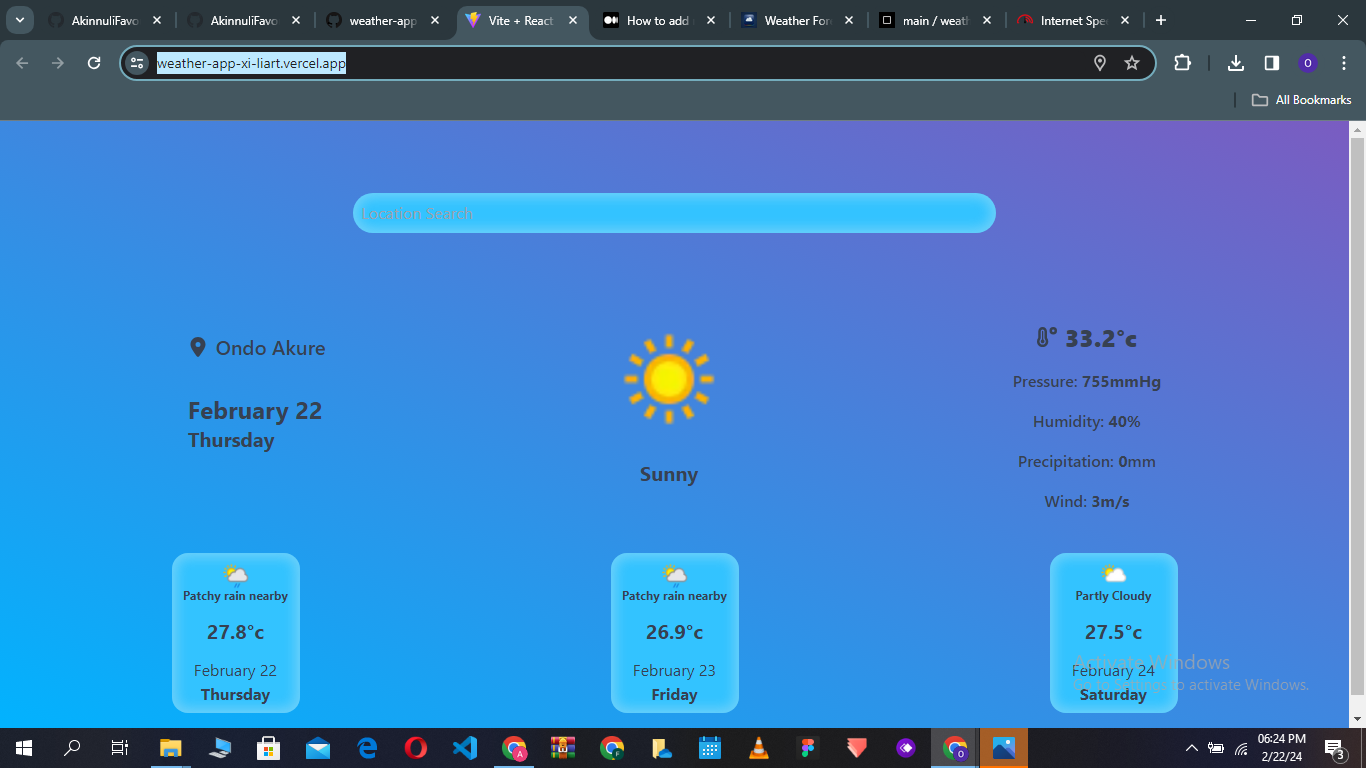
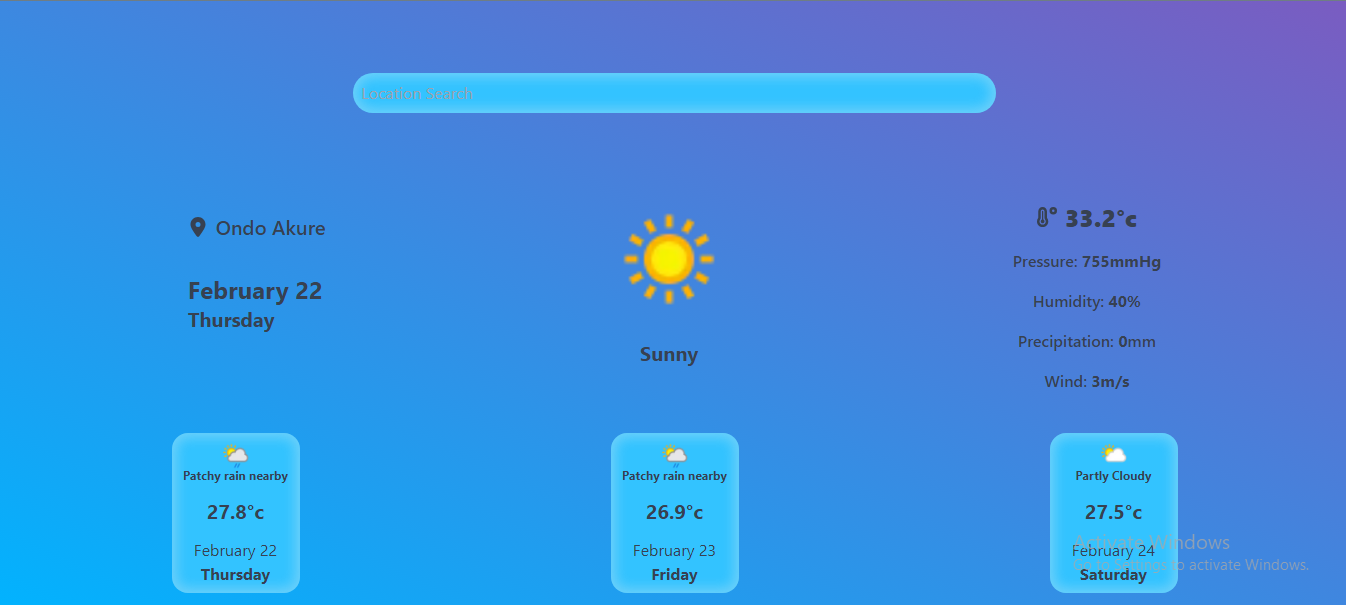
Update SearchBar component styling

diff --git a/src/compoents/SearchBar.tsx b/src/compoents/SearchBar.tsx
@@ -5,13 +5,13 @@ const SearchBar = ({location, setLocation}: {location: string, setLocation: Reac
         console.log(`User Pressed ${e.key}`)
     }
     return (
-    <form action="" className="mt-10 flex justify-center items-center gap-4">
+      <form action="" className="mt-10 flex justify-center items-center gap-4 relative">
       <input
         type="search"
         name=""
         id=""
         placeholder="Location Search"
-        className="p-2 w-full lg:w-1/2 outline-none rounded-3xl shadow-inner bg-[#33C3FF]"
+        className="p-2 w-full lg:w-1/2 outline-none rounded-3xl shadow-inner bg-[#33C3FF] pl-10"
         onKeyDown={handleKeyDown}
         value={location}
         onChange={(e) => setLocation(e.target.value)}
@@ -19,7 +19,7 @@ const SearchBar = ({location, setLocation}: {location: string, setLocation: Reac
 
       <FaSearch
         onClick={() => console.log("Clicked")}
-        className="absolute top-1/2 transform -translate-y-1/2 right-2 h-5 w-5 text-blue-500 cursor-pointer"
+        className="absolute top-1/2 transform -translate-y-1/2 left-2 h-5 w-5 text-blue-500 cursor-pointer"
       />
     </form>
     )
